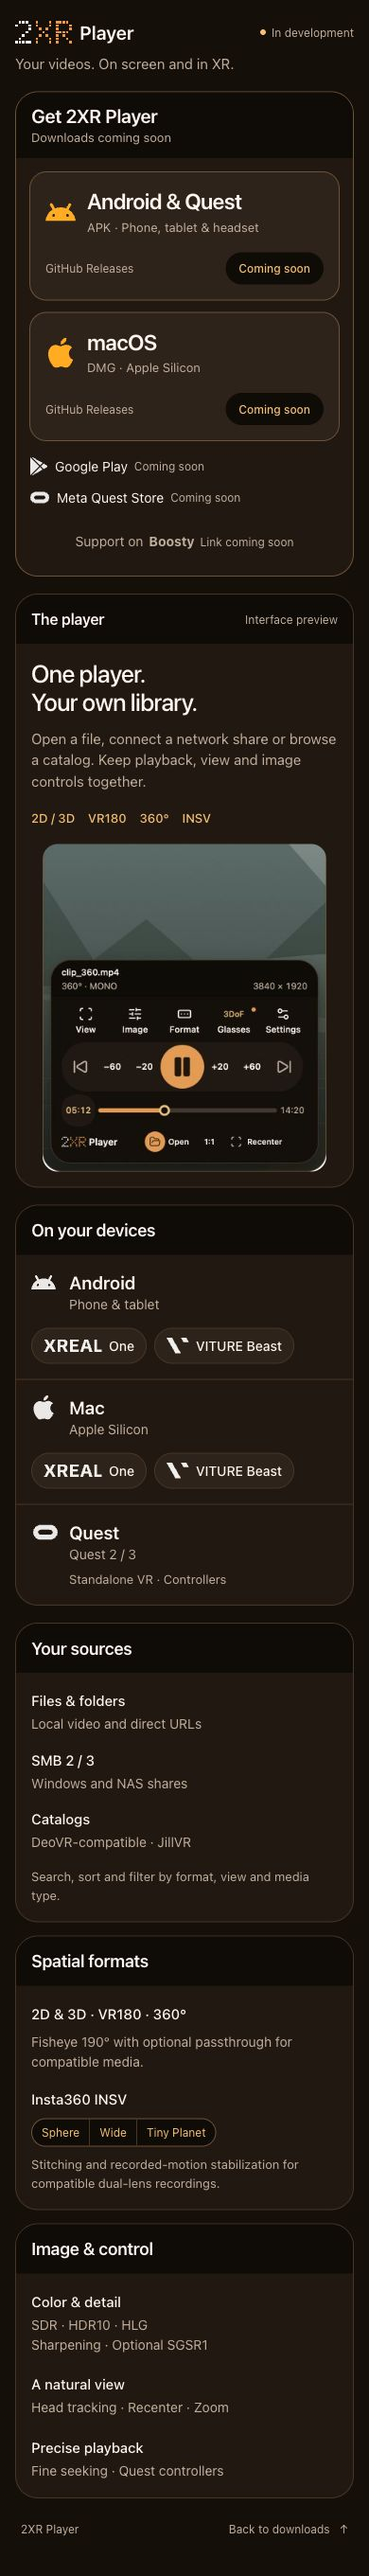
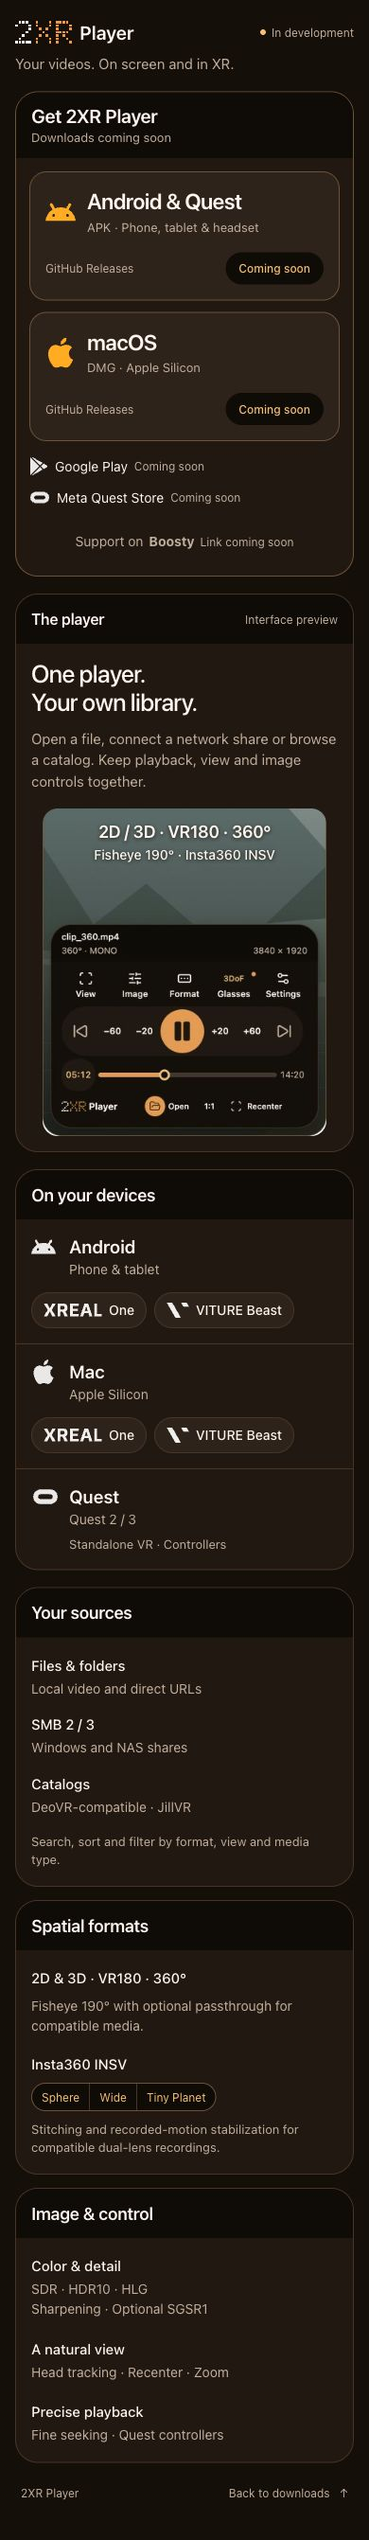
1.0.217: Show supported formats over the website player preview

diff --git a/styles.css b/styles.css
@@ -61,8 +61,11 @@ h2 { font-size: 18px; line-height: 26px; font-weight: 600; letter-spacing: -.015
 .preview-copy { padding: 6px 8px; }
 .preview-lead { margin-bottom: 12px; font-size: 30px; line-height: 1.16; letter-spacing: -.03em; font-weight: 500; }
 .preview-copy > p:not(.preview-lead) { max-width: 340px; color: var(--muted); line-height: 1.5; }
-.format-strip { display: flex; flex-wrap: wrap; gap: 8px 14px; margin-top: 18px; color: var(--soft); font-size: 13px; font-weight: 500; }
-.interface-preview { display: block; min-width: 0; }
+.interface-preview { display: block; position: relative; min-width: 0; }
+.interface-preview picture { display: block; }
+.preview-formats { position: absolute; inset: 18px 12px auto; display: flex; flex-direction: column; align-items: center; gap: 3px; color: var(--text); text-align: center; text-shadow: 0 1px 4px rgb(16 11 7 / 85%); pointer-events: none; }
+.preview-formats > span:first-child { font-size: 21px; line-height: 28px; font-weight: 600; letter-spacing: -.015em; }
+.preview-formats > span:last-child { font-size: 15px; line-height: 21px; font-weight: 500; }
 .interface-preview img { display: block; width: 100%; height: auto; border-radius: 16px; }
 .device-grid { display: grid; grid-template-columns: repeat(3, minmax(0, 1fr)); }
 .device { display: grid; grid-template-columns: 30px minmax(0, 1fr); align-items: center; gap: 0 10px; padding: 20px 22px; align-content: start; }
@@ -99,6 +102,9 @@ footer a:hover { color: var(--text); }
   .download-platform h3 { font-size: 22px; }
   .preview-layout { grid-template-columns: .7fr 1.3fr; gap: 12px; }
   .preview-lead { font-size: 26px; }
+  .preview-formats { top: 12px; }
+  .preview-formats > span:first-child { font-size: 18px; line-height: 24px; }
+  .preview-formats > span:last-child { font-size: 14px; line-height: 20px; }
   .device { padding: 18px; }
   .device-detail { line-height: 1.65; }
   .feature-grid { grid-template-columns: repeat(2, minmax(0, 1fr)); }
@@ -146,4 +152,9 @@ footer a:hover { color: var(--text); }
   .download-bottom { gap: 8px; }
   .availability { padding: 7px 10px; }
   .preview-panel .panel-heading { flex-wrap: wrap; gap: 0 12px; }
+}
+@media (min-width: 601px) and (max-width: 767px) {
+  .preview-formats { top: 8px; gap: 2px; }
+  .preview-formats > span:first-child { font-size: 17px; line-height: 22px; }
+  .preview-formats > span:last-child { font-size: 13px; line-height: 18px; }
 }

diff --git a/index.html b/index.html
@@ -12,7 +12,7 @@
     <title>2XR Player — Android, Mac &amp; Quest</title>
     <link rel="canonical" href="https://2xr.me/">
     <link rel="icon" href="assets/favicon.svg?v=3" type="image/svg+xml">
-    <link rel="stylesheet" href="styles.css?v=12">
+    <link rel="stylesheet" href="styles.css?v=13">
   </head>
   <body>
     <main class="page">
@@ -48,8 +48,8 @@
       <section class="panel preview-panel" aria-labelledby="preview-title">
         <div class="panel-heading"><h2 id="preview-title">The player</h2><span class="section-note">Interface preview</span></div>
         <div class="preview-layout">
-          <div class="preview-copy"><p class="preview-lead">One player.<br> Your own library.</p><p>Open a file, connect a network share or browse a catalog. Keep playback, view and image controls together.</p><div class="format-strip" aria-label="Supported video types"><span>2D / 3D</span><span>VR180</span><span>360°</span><span>INSV</span></div></div>
-          <picture class="interface-preview"><source media="(max-width: 600px)" srcset="assets/interface-phone.png" width="390" height="450"><img src="assets/interface-desktop.png" alt="Capsule interface preview: a video with a warm compact control panel, round Play button and Open, View, Image and Format controls." width="992" height="440" loading="lazy"></picture>
+          <div class="preview-copy"><p class="preview-lead">One player.<br> Your own library.</p><p>Open a file, connect a network share or browse a catalog. Keep playback, view and image controls together.</p></div>
+          <div class="interface-preview"><picture><source media="(max-width: 600px)" srcset="assets/interface-phone.png" width="390" height="450"><img src="assets/interface-desktop.png" alt="Capsule interface preview: a video with a warm compact control panel, round Play button and Open, View, Image and Format controls." width="992" height="440" loading="lazy"></picture><div class="preview-formats" aria-label="Supported video formats"><span>2D / 3D · VR180 · 360°</span><span>Fisheye 190° · Insta360 INSV</span></div></div>
         </div>
       </section>
 

diff --git a/README.md b/README.md
@@ -45,7 +45,9 @@ with a tightly cropped SVG viewBox and Player at weight 600.
 The two download choices dominate the first screen. The responsive layout uses
 natural scrolling and stacks downloads before product information on phones.
 The interface images are cropped screenshots of the approved HTML design reference,
-not claims about installed-player or device verification. Their source is
+not claims about installed-player or device verification. The website lists video
+formats directly over the mountain background, above the illustrated controls.
+Their source is
 `docs/player/ui-plans/capsule-2026-10-03` in the player repository.
 Android and Mac compatibility includes prominent XREAL One and VITURE Beast
 labels with their original brand marks. These are display labels, not controls.
